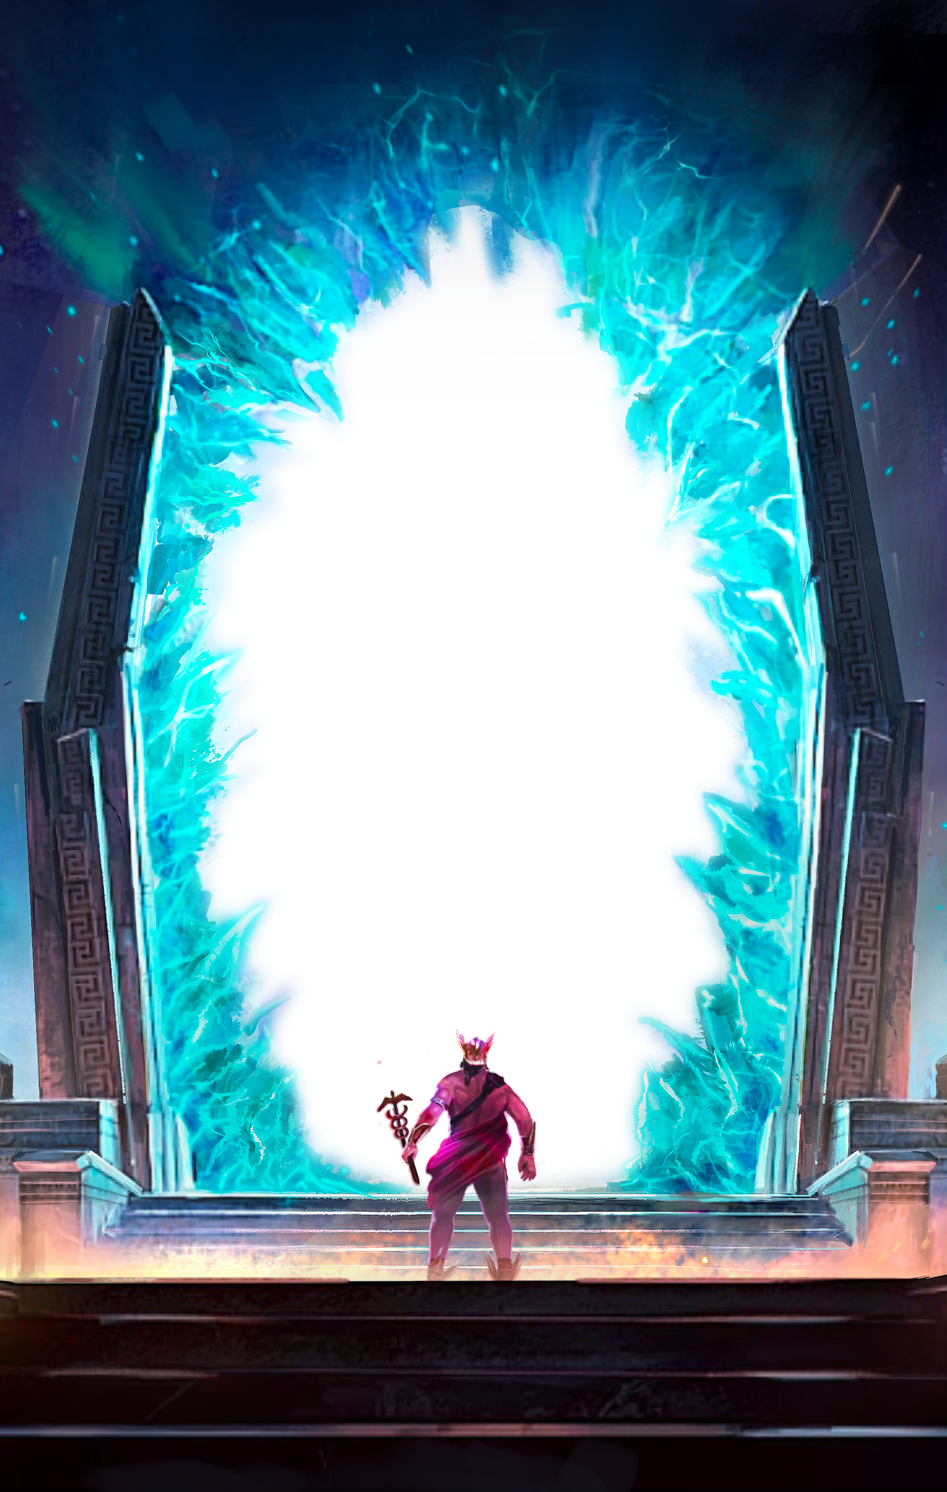
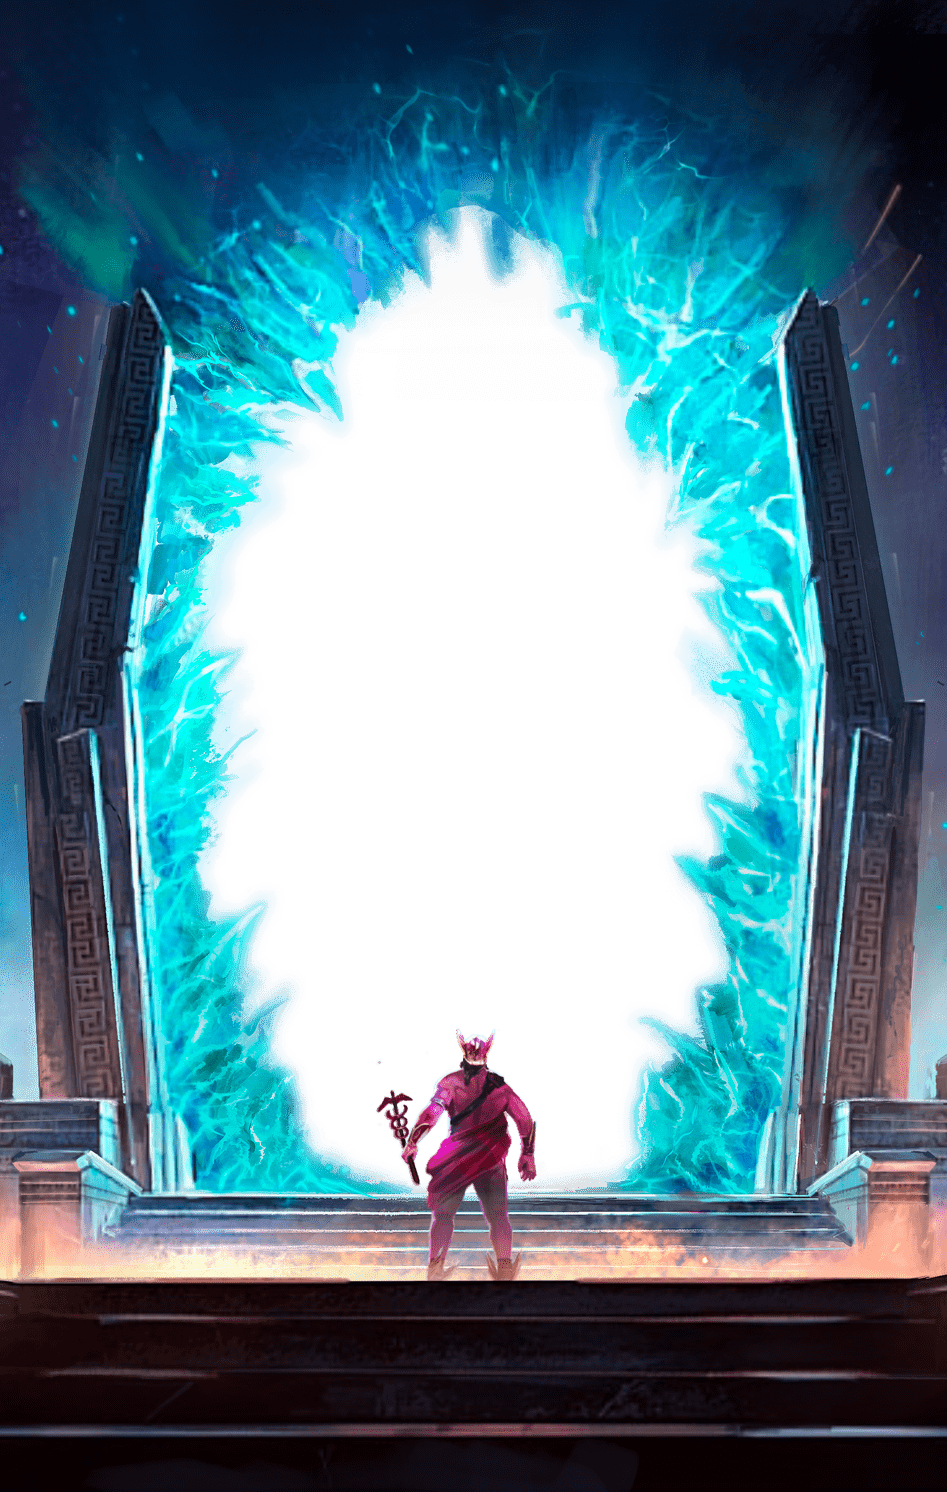
hero images optimised

diff --git a/src/components/howItWorksPage/hero/Portal.tsx b/src/components/howItWorksPage/hero/Portal.tsx
@@ -34,7 +34,7 @@ const Portal: React.FC<props> = ({
           src={"/img/art/left-portal.png"}
           layout="fill"
           priority={true}
-          quality={95}
+          quality={100}
         />
       </motion.span>
       <motion.span
@@ -48,7 +48,7 @@ const Portal: React.FC<props> = ({
           src={"/img/art/right-portal.png"}
           layout="fill"
           priority={true}
-          quality={95}
+          quality={100}
         />
       </motion.span>
       <motion.span
@@ -62,7 +62,7 @@ const Portal: React.FC<props> = ({
           src={"/img/art/middle-portal.png"}
           layout="fill"
           priority={true}
-          quality={95}
+          quality={100}
         />
       </motion.span>
     </>
